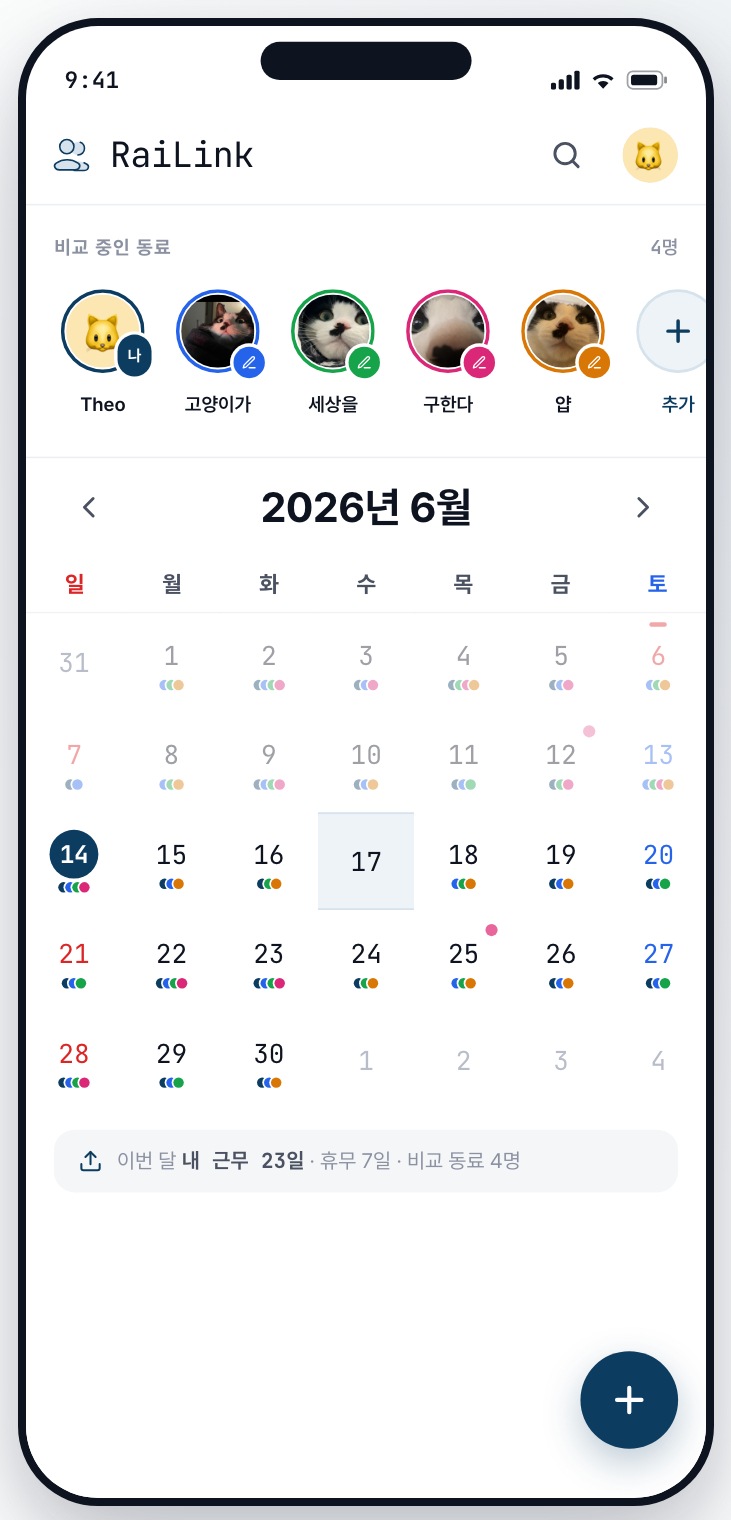
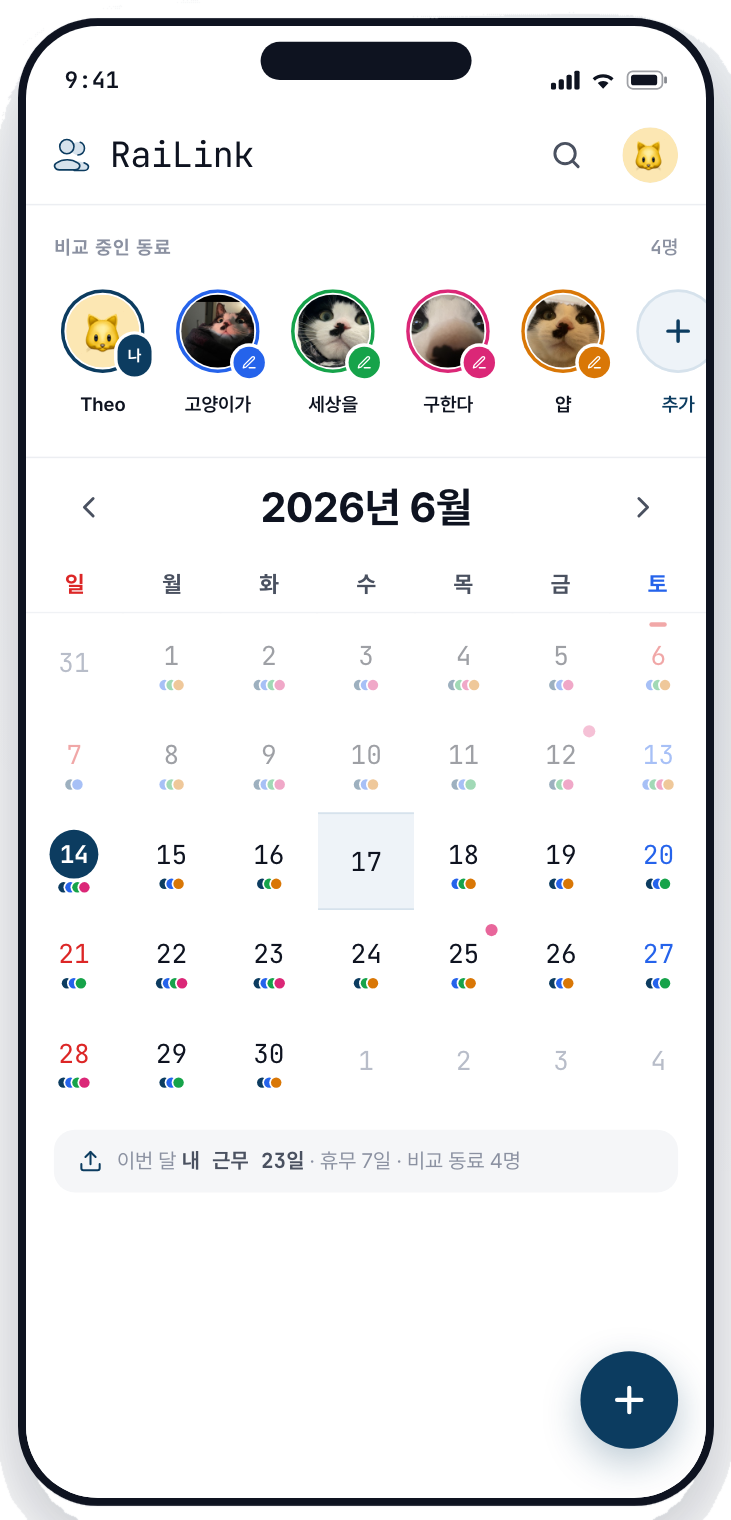
퍼널 끝점 복원 + RaiLink 폰 자산 배경 투명 처리
- 퍼널: 라벨을 도형 안에 넣으려고 마지막 단계를 사다리꼴로 바꿨더니 퍼널의 뾰족한 끝이 사라졌음
  → 삼각형(높이 102)으로 되돌리되 상단을 넓게 잡아 Revenue·결제가 도형 안에 들어오게 함
- railink-phone.png이 투명 배경이 아니라 회색(#ECEEF0)이 칠해져 있어 틴트 박스(#F0F0F0) 위에서
  사각형 경계가 드러났음 → 테두리에서 연결된 배경만 플러드필로 따내 알파 적용(화면 안 흰색은 보존)

Changed region(s): [[0.0602, 0.9586, 0.933, 1.0]]

diff --git a/redesign/case-openpath.html b/redesign/case-openpath.html
@@ -108,12 +108,12 @@
     <div class="row"><p class="viz-lbl reveal">AARRR 퍼널 · 어디서 막혔나</p></div>
     <div class="row">
       <div class="funnelviz reveal" id="funnelviz">
-        <svg viewBox="0 0 560 348" role="img" aria-label="AARRR 퍼널: Acquisition, Activation, Retention, Referral, Revenue 5단계 중 Activation과 Revenue가 막힌 단계">
+        <svg viewBox="0 0 560 392" role="img" aria-label="AARRR 퍼널: Acquisition, Activation, Retention, Referral, Revenue 5단계 중 Activation과 Revenue가 막힌 단계">
           <polygon class="st" points="44,8 516,8 484.8,68 75.2,68"/>
           <polygon class="st hi" points="79.4,76 480.6,76 449.4,136 110.6,136"/>
           <polygon class="st" points="114.7,144 445.3,144 414.1,204 145.9,204"/>
           <polygon class="st" points="150.1,212 409.9,212 378.7,272 181.3,272"/>
-          <polygon class="st hi" points="185.4,280 374.6,280 343.4,340 216.6,340"/>
+          <polygon class="st hi" points="185.4,280 374.6,280 280,382"/>
           <text class="t" x="280" y="36">Acquisition</text>
           <text class="g" x="280" y="54">유입</text>
           <text class="t on" x="280" y="104">Activation</text>
